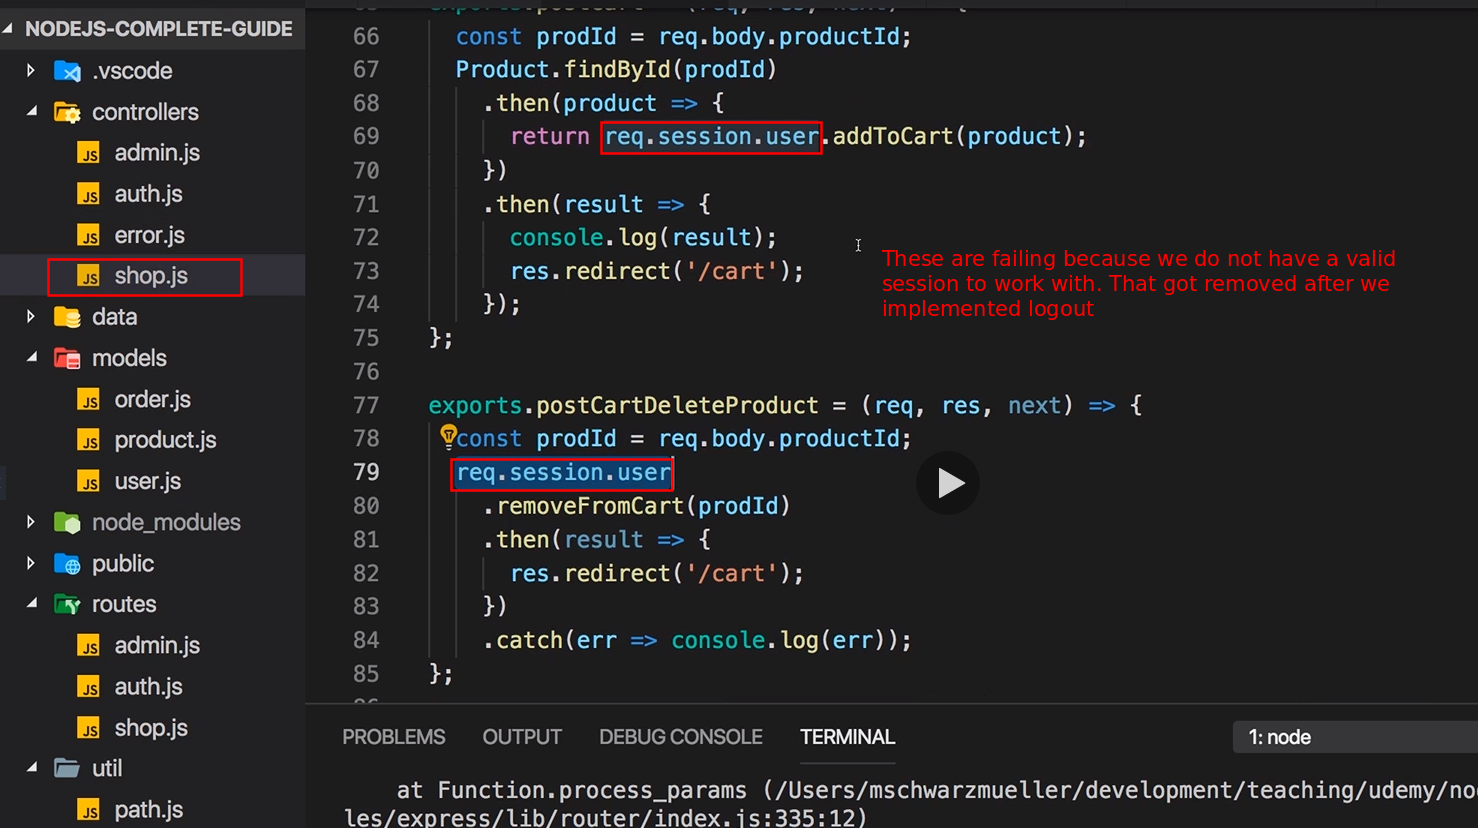
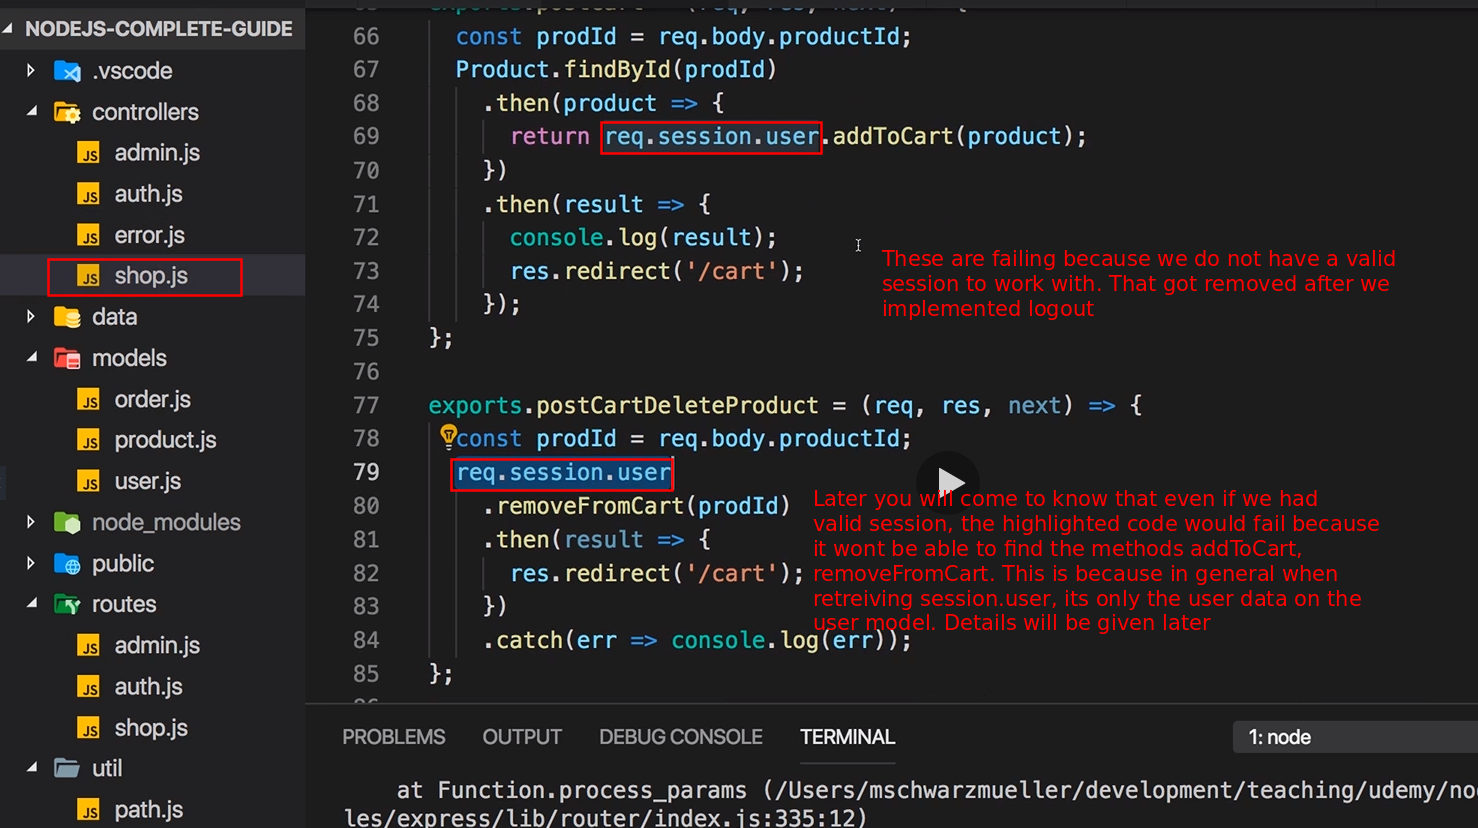
session destroy, logout, add_to_cart feature fixed for session data

Changed region(s): [[0.5602, 0.5737, 0.9337, 0.785]]

diff --git a/14-Sessions and Cookies/02-working-code/controllers/shop.js b/14-Sessions and Cookies/02-working-code/controllers/shop.js
@@ -75,7 +75,7 @@ exports.getCart = (req, res, next) => {
    *  for already fetched document like here req.session.user we need this
    *  https://stackoverflow.com/questions/29430542/populating-on-an-already-fetched-document-is-it-possible-and-if-so-how
    */
-  req.session.user
+  req.user
     .populate({ path: "cart.items.productId" })
     .execPopulate()
     .then(pUser => {
@@ -97,7 +97,7 @@ exports.getCart = (req, res, next) => {
 };
 exports.getOrders = (req, res, next) => {
   Order.find({
-    'user.userId' : req.session.user._id
+    'user.userId' : req.user._id
   })
   .then(orders => {
     // console.log('ORDER-PRODUCT ==============> ',orders[0].products);
@@ -121,7 +121,7 @@ exports.postCart = (req, res, next) => {
   const prodId = req.body.productId;
   Product.findById(prodId)
     .then(product => {
-      return req.session.user.addToCart(product);
+      return req.user.addToCart(product);
     })
     .then(result => {
       res.redirect("/cart");
@@ -131,7 +131,7 @@ exports.postCart = (req, res, next) => {
 exports.postCartDeleteProduct = (req, res, next) => {
   const prodId = req.body.productId;
   console.log("DELETE CART ITEM...", prodId);
-  req.session.user
+  req.user
     .deleteFromCart(prodId)
     .then(result => {
       console.log("111-DELETED CART ITEM...", result, "END-111");
@@ -140,7 +140,7 @@ exports.postCartDeleteProduct = (req, res, next) => {
     .catch(err => console.log(err));
 };
 exports.postOrder = (req, res, next) => {
-  req.session.user
+  req.user
     .populate("cart.items.productId")
     .execPopulate()
     .then(pUser => {
@@ -155,19 +155,19 @@ exports.postOrder = (req, res, next) => {
       console.log("126-userCartItems", userCartItems);
       const order = new Order({
         user: {
-          userId: req.session.user._id,
-          name: req.session.user.name
+          userId: req.user._id,
+          name: req.user.name
         },
         products: userCartItems
       });
       return order.save();
     })
     .then(result => {
-      return req.session.user.clearCart();
+      return req.user.clearCart();
     })
     .then(() => res.redirect("/orders"));
 
-  // req.session.user
+  // req.user
   //   .addOrder()
   //   .then(result => {
   //     res.redirect("/orders");

diff --git a/14-Sessions and Cookies/02-working-code/app.js b/14-Sessions and Cookies/02-working-code/app.js
@@ -45,19 +45,20 @@ app.use(session({
   store: store  
 }))
 
-// Store the currently logged-in user in the request object
-/*
+// Store the currently logged-in user in the request object from the session
 app.use((req, res, next) => {
-  User.findById("5e720626851b941b94fad304")
-  .then(user => {
-    // const { name, email, cart, _id } = user //  This use is just an object from DB without any Class methods
-    // const userModel = new User(name, email, cart, _id); // This user will possess all the Class methods
-    req.user = user; //mongoose model. we do not need to create user object again
+  if(req.session.user) {
+    User.findById(req.session.user._id)
+    .then(user => {    
+      req.user = user; //mongoose model. we do not need to create user object again
+      next();
+    })
+    .catch(err => console.log(err));
+  }else{
     next();
-  })
-  .catch(err => console.log(err));
+  }
 });
-*/
+
 
 // Routes
 app.use("/admin", adminRoutes);

diff --git a/14-Sessions and Cookies/02-working-code/controllers/auth.js b/14-Sessions and Cookies/02-working-code/controllers/auth.js
@@ -27,12 +27,17 @@ const postLogin = (req, res, next) => {
   const { email, password } = req.body;
   User.findOne({ email: email })
     .then((user) => {
-      if(user){
+      if(!user){
+        res.redirect("/");
+      }else {
         console.log('user found :', user.email)
         req.session.user = user
         req.session.isLoggedIn = true;
+        req.session.save(err => {
+          console.log(err);
+          res.redirect("/"); //redirect only when session has been saved
+        })
       }
-      res.redirect("/");
       // else throw new Error('User not found')
     })
     .catch((err) => console.log(err));

diff --git a/14-Sessions and Cookies/02-working-code/controllers/admin.js b/14-Sessions and Cookies/02-working-code/controllers/admin.js
@@ -63,7 +63,7 @@ exports.postAddProduct = (req, res, next) => { //MONGO
     imageUrl: imageUrl,
     description: description,
     price: price,
-    userid: req.session.user._id
+    userid: req.user._id
   })
   product.save()
     .then(result => {
